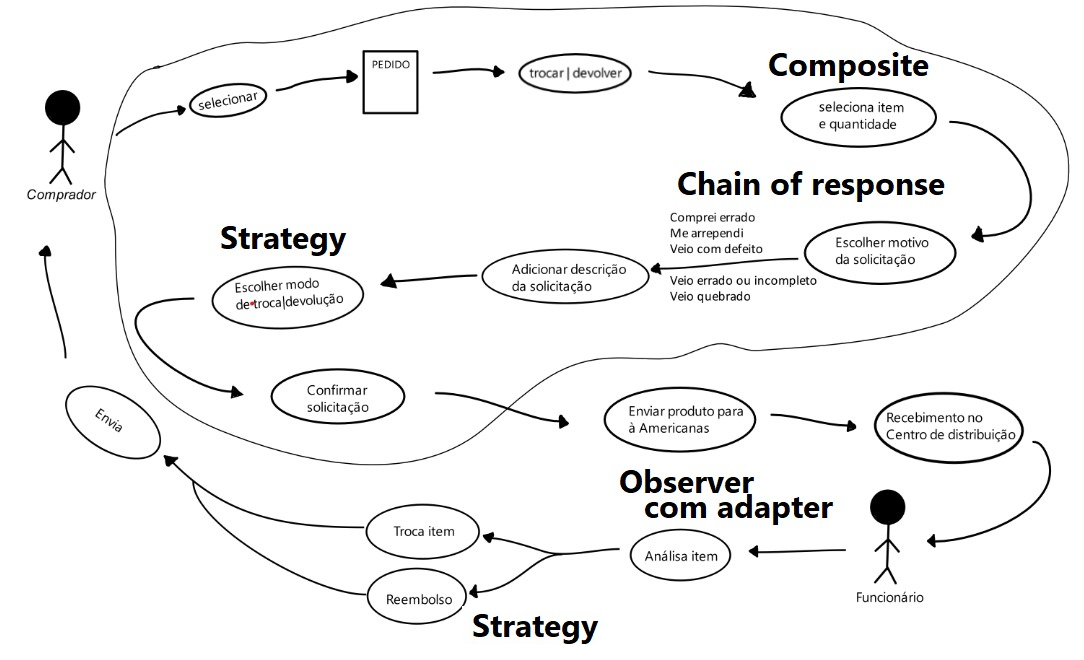
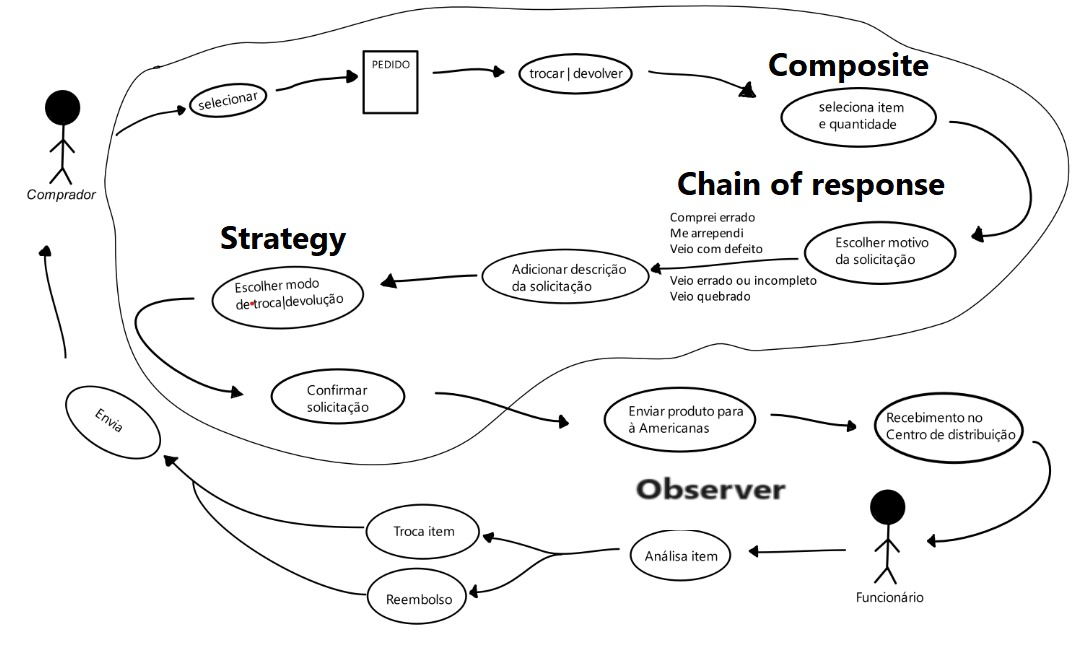
adicionando ultimas alteracoes

Changed region(s): [[0.548, 0.697, 0.7915, 0.7879], [0.4871, 0.0909, 0.5784, 0.1515], [0.4262, 0.9091, 0.548, 1.0]]

diff --git a/docs/ArquiteturaReutilizacao/4.2.1Reutilizacao.md b/docs/ArquiteturaReutilizacao/4.2.1Reutilizacao.md
@@ -4,7 +4,7 @@
 
 &emsp;&emsp;A reutilização de software consiste em aproveitar conceitos, produtos ou soluções existentes para criar novos softwares, com o objetivo de aprimorar a qualidade e a produtividade. Esse processo envolve a utilização de partes de sistemas anteriores, tais como especificações, módulos, arquitetura e código-fonte. A reutilização tem como meta principal elevar a qualidade e reduzir o tempo de desenvolvimento. Pode ser aplicada em diferentes etapas do ciclo de desenvolvimento, como requisitos, design e implementação. Atualmente, há várias técnicas de reuso disponíveis, tais como o uso de frameworks, a adoção de arquiteturas orientadas a serviços (SOA) e a prática de engenharia de software baseada em componentes.
 
-&emsp;&emsp; Para um melhor resultado desse modulo, foi realizado em cima do nosso rich picture, um brainstorm com os membros do grupo para uma melhor visualização dos padrões de projeto. Como resultado, ficou acordado o uso de 4 Padrões para o nosso fluxod de Devolução/Troca, que foram: Composite, Chain of Responsability e o Strategy em duas oportunidades.
+&emsp;&emsp; Para um melhor resultado desse modulo, foi realizado em cima do nosso rich picture, um brainstorm com os membros do grupo para uma melhor visualização dos padrões de projeto. Como resultado, ficou acordado o uso de 4 Padrões para o nosso fluxo de Devolução/Troca, que foram: Composite, Chain of Responsability e o Strategy em duas oportunidades.
 
 
 ![RichPicture](../Assets/rich_Picture_comPadroes.png)
@@ -51,27 +51,40 @@ public class Main {
 
 Obs: A implementação completa pode ser encontrada em [Chain Of Responsability](/docs/PadroesDeProjeto/ChainOfResponsibility.md)
 
-Durante a etapa de construção dos padrões de projeto, foi construido o padrão compartamental Chain of Responsability, pois O padrão permite que você construa uma cadeia de manipuladores onde cada manipulador tem a oportunidade de lidar com uma solicitação ou passá-la para o próximo manipulador na cadeia. Isso proporciona flexibilidade e desacoplamento, permitindo que diferentes manipuladores possam tratar diferentes tipos de solicitações. O que atendia perfeitamente a etapa do fluxo de escolha o motivo da solicitação, pois a partir dessa escolha, seria atribuido aos departamentos, a responsabilidade por aquele produto 
+Durante a etapa de construção dos padrões de projeto, foi construido o padrão comportamental Chain of Responsability, pois O padrão permite que você construa uma cadeia de manipuladores onde cada manipulador tem a oportunidade de lidar com uma solicitação ou passá-la para o próximo manipulador na cadeia. Isso proporciona flexibilidade e desacoplamento, permitindo que diferentes manipuladores possam tratar diferentes tipos de solicitações. O que atendia perfeitamente a etapa do fluxo de escolha o motivo da solicitação, pois a partir dessa escolha, seria atribuido aos departamentos, a responsabilidade por aquele produto 
 
 ![diagrama](../Assets/PadroesProjeto/chainUml.png)
-<h6 align = "center">Figura 3: Diagrama Composite. Fonte: Gabriel Ribeiro</h6>
+<h6 align = "center">Figura 3: Diagrama Chain. Fonte: Alex Gabriel</h6>
+
+
+## 2.3 Observer 
+
+Obs: A implementação completa pode ser encontrada em [Observer](/docs/PadroesDeProjeto/Observer.md)
+
+
+Durante a etapa de construção dos padrões de projeto, foi construido o padrão comportamental Observer, pois com o Principio aberto/fechado você pode introduzir novas classes assinantes sem ter que mudar o código da publicadora e também estabelecer relações entre objetos durante a execução. O que se encaixa na etapa do nosso fluxo de 
+analise do produto para a confirmação do da troca/reembolso.
+
+![diagrama](../Assets/PadroesProjeto/Observer/observer_diagram.png)
+<h6 align = "center">Figura 4: Diagrama Observer. Fonte: Carlos Rafael</h6>
 
 
 
 
+## 2.4 Strategy 
 
+Obs: A implementação completa pode ser encontrada em [Strategy](/docs/PadroesDeProjeto/Strategy/Strategy.md)
 
+Durante a etapa da construção dos padrões de projeto, foi cosntruido o padrão compartamental Strategy, pois com o Princípio aberto/fechado, você pode introduzir novas estratégias sem mudar o contexto e também isolar os detalhes de implementação de um algoritmo do código que usa ele. O que se encaixa para duas etapas do nosso fluxo, na escolha do modo de devolução, e na forma de como será feito o reembolso em caso de devolução.
 
+![diagrama](../Assets/PadroesProjeto/StrategyReturn.png)
+<h6 align = "center">Figura 5: Diagrama Strategy Escolha do modo de devolução. Fonte: Bruno Seiji</h6>
 
-
-
-
-
-
-
+![diagrama](../Assets/PadroesProjeto/Strategy.png)
+<h6 align = "center">Figura 4: Diagrama Strategy Reembolso. Fonte: Guilherme Peeix</h6>
 ## Versionamento
 
 | Versão | Alteração            | Responsável    | Revisor | Data de realização | Data de revisão |
 | ------ | -------------------- | -------------- | ------- | ------------------ | --------------- |
 |  1.0   | Criando documento e adição do Composite| Gabriel Ribeiro | Carlos Rafael | 30/11/2023 | 30/11/2023 |
-|  2.0   | | Gabriel Ribeiro | Carlos Rafael | 30/11/2023 | 30/11/2023 |
+|  2.0   | Adição dos demais Padrões | Gabriel Ribeiro | Carlos Rafael | 30/11/2023 | 30/11/2023 |

diff --git a/docs/_sidebar.md b/docs/_sidebar.md
@@ -41,7 +41,8 @@
   - [3. Desenho de Software (Padrões de Projeto)](PadroesDeProjeto/3.PadroesDeProjeto.md)
     - [3.1 Chain of Responsability (Padrões de Projeto)](PadroesDeProjeto/ChainOfResponsibility.md)
     - [3.2 Composite (Padrões de Projeto)](PadroesDeProjeto/Composite/Composite.md)
-    - [3.1 Observer (Padrões de Projeto)](PadroesDeProjeto/Observer.md)
+    - [3.3 Observer (Padrões de Projeto)](PadroesDeProjeto/Observer.md)
+    - [3.4 Strategy (Padrões de Projeto)](PadroesDeProjeto/Strategy/Strategy.md)
 
 - **Arquitetura de Software & Reutilização - Entrega Final**
   - [4. Desenho de Software (Arquitetura & Reutilização de Software)](ArquiteturaReutilizacao/4.ArquiteturaReutilizacao.md)

diff --git a/docs/PadroesDeProjeto/Strategy/Strategy.md b/docs/PadroesDeProjeto/Strategy/Strategy.md
@@ -107,4 +107,4 @@ Modelagem utilizando a ferramenta [lucidapp](https://lucid.app/)
 | Versão | Alteração |  Responsável  | Revisor | Data de realização | Data de revisão |
 | :------: | :---: | :-----: | :----: | :----: | :-----: |
 | 1.0    | Criação do documento e diagrama/código reembolso | Guilherme Lima | Bruno Seiji | 01/12/2023| 01/12/2023 |
-| 1.1    | Criação diagrama e código devolução              | Bruno Seiji    |             | 01/12/2023| 01/12/2023 |
+| 1.1    | Criação diagrama e código devolução              | Bruno Seiji    |  Gabriel Ribeiro           | 01/12/2023| 01/12/2023 |
